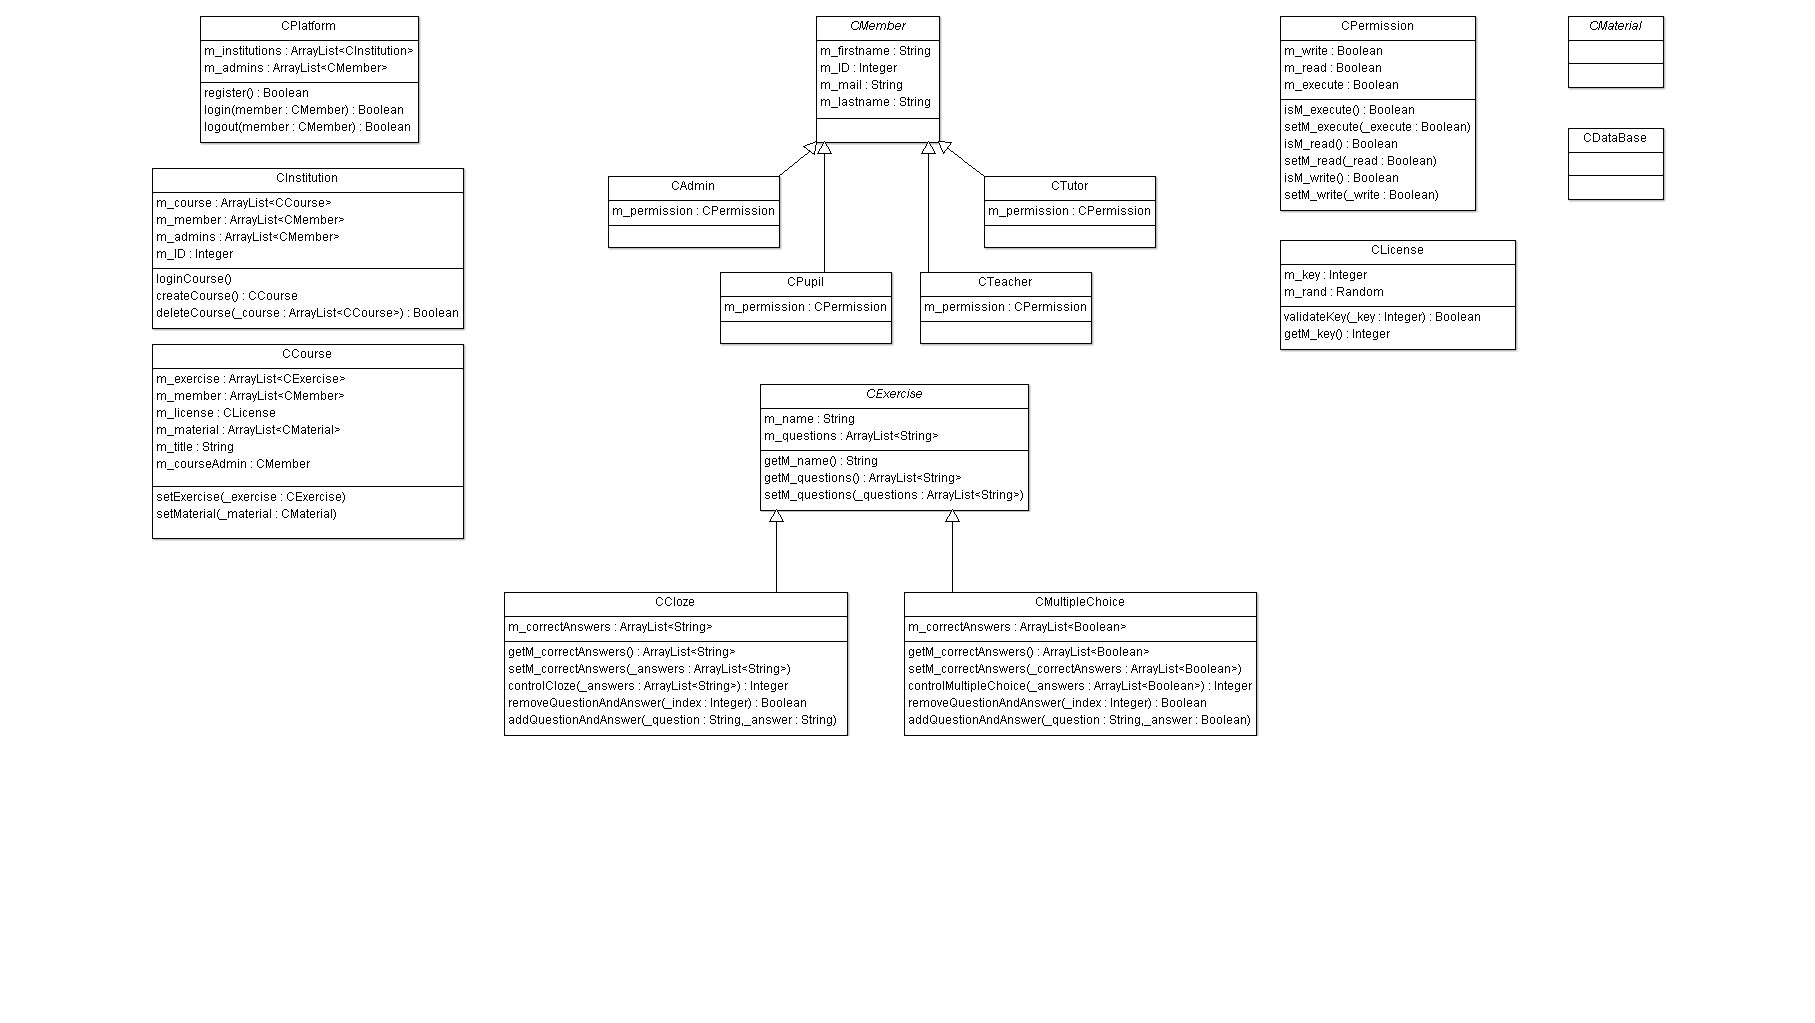
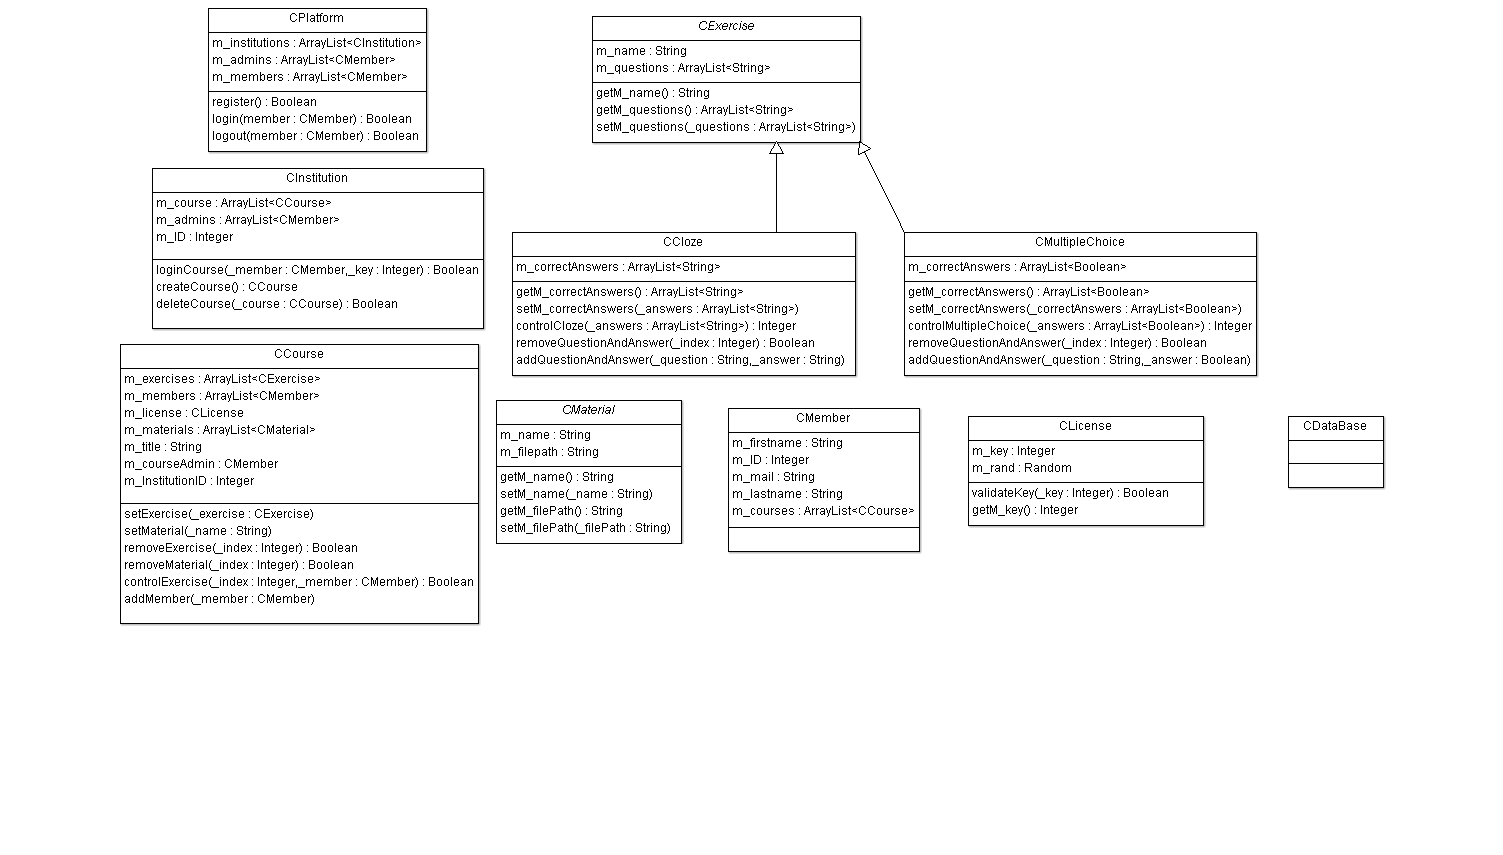
updated UML, implented addMember and removeExercise in CCourse

diff --git a/src/CCourse.java b/src/CCourse.java
@@ -7,11 +7,12 @@ import java.util.ArrayList;
 public class CCourse {
 
     //constructor
-    public CCourse (String _title, CMember _courseAdmin)
+    public CCourse (String _title, CMember _courseAdmin, int _InstitutionID)
     {
         this.m_title = _title;
         this.m_admin = _courseAdmin;
         this.m_license = new CLicense();
+        this.m_InstitutionID = _InstitutionID;
 
         this.m_exercises = new ArrayList<CExercise>();
         this.m_materials = new ArrayList<CMaterial>();
@@ -25,8 +26,14 @@ public class CCourse {
     private ArrayList<CExercise> m_exercises;
     private ArrayList<CMember> m_members;
     private ArrayList<CMaterial> m_materials;
+    private int m_InstitutionID;
 
     //methods
+
+
+    public int getM_InstitutionID() {
+        return m_InstitutionID;
+    }
 
     public String getM_title() {
         return m_title;
@@ -90,6 +97,23 @@ public class CCourse {
         return success;
     }
 
+    public boolean removeExercise(int _index, CMember _member)
+    {
+        boolean success = false;
+        int listIndex = _index - 1;
+
+        if (this.m_admin.getM_ID() == _member.getM_ID())
+        {
+            if ((this.getM_exercises().size() - listIndex >= 0) && (listIndex >= 0))
+            {
+                this.m_exercises.remove(listIndex);
+                return success = true;
+            }
+        }
+
+        return success;
+    }
+
     public int controlExercise (int _index, ArrayList _answers)
     {
         int result = 0;
@@ -109,6 +133,11 @@ public class CCourse {
         }
 
         return result;
+    }
+
+    public void addMember(CMember _member)
+    {
+        this.m_members.add(_member);
     }
 }
 

diff --git a/src/CMember.java b/src/CMember.java
@@ -23,7 +23,7 @@ public class CMember
         m_courses = new ArrayList<CCourse>();
     }
 
-    //methods
+    //
 
     public String getM_firstname()
     {
